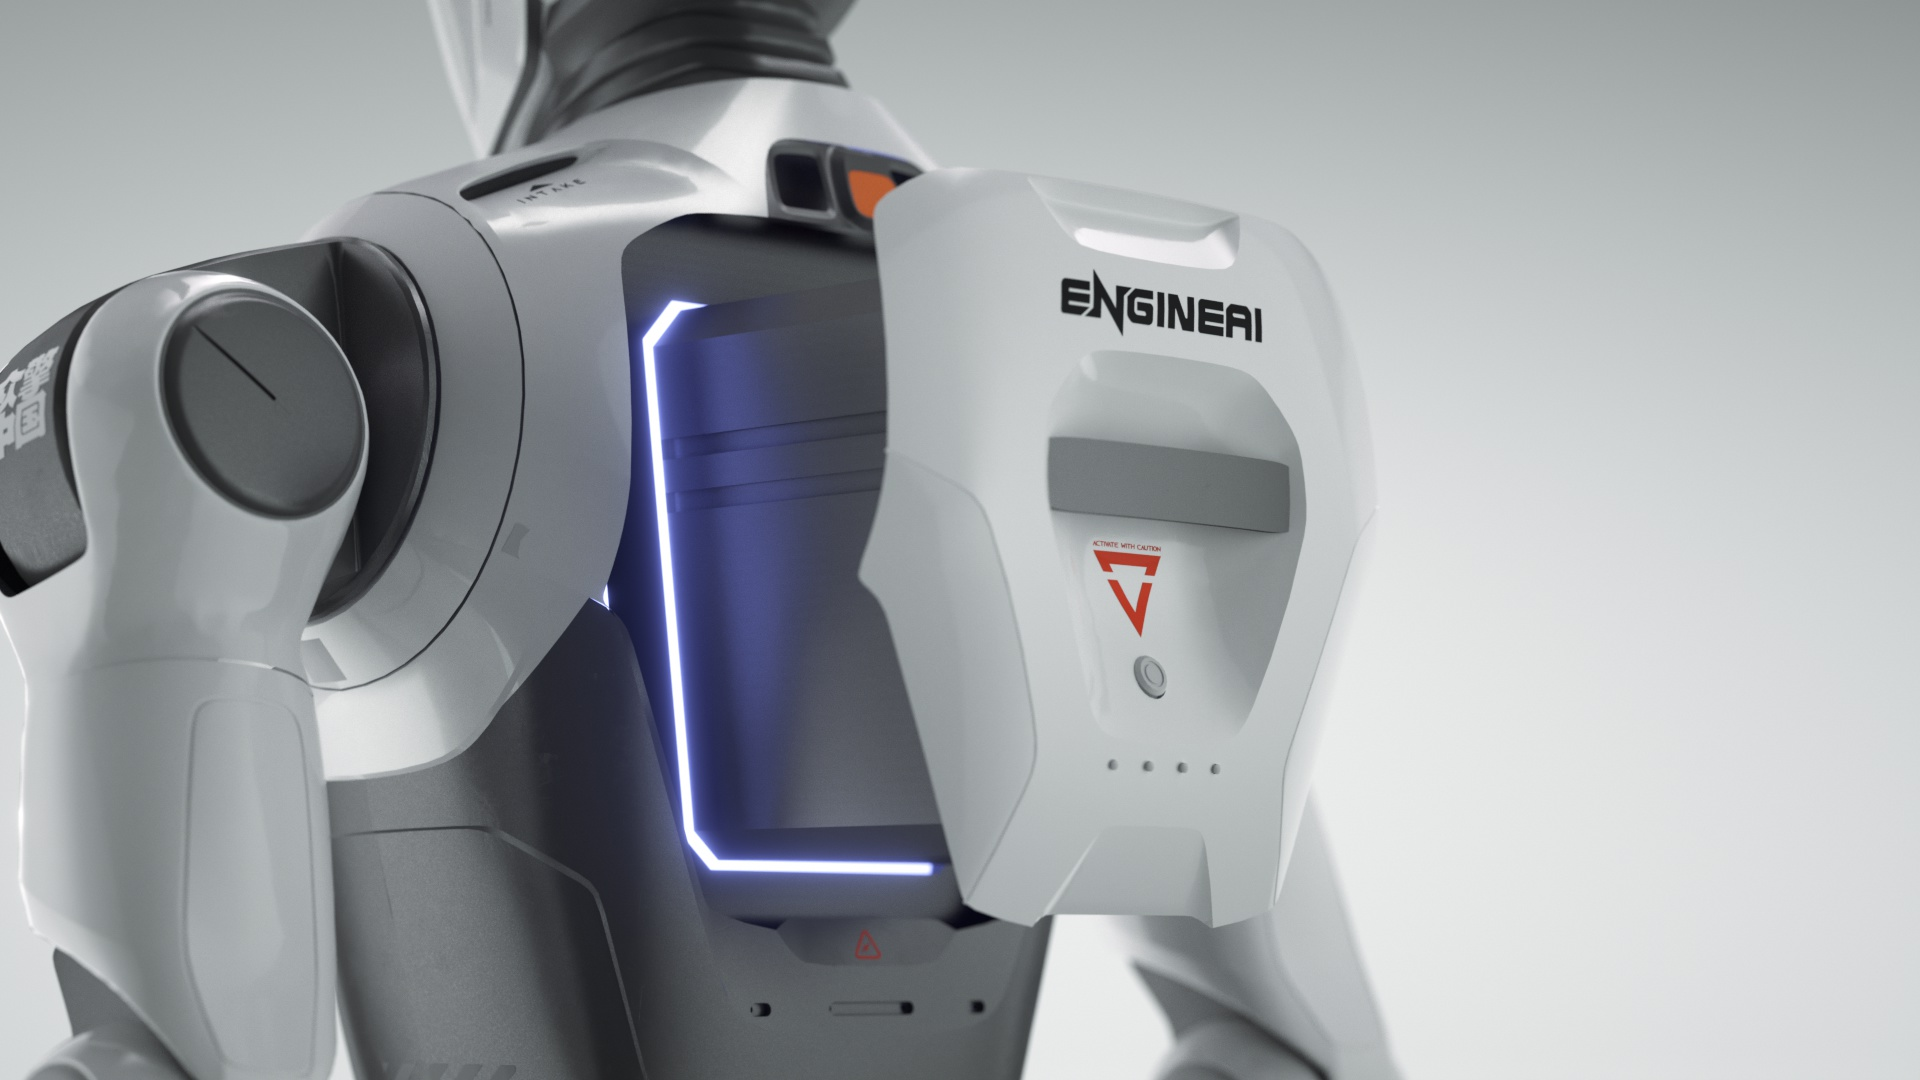
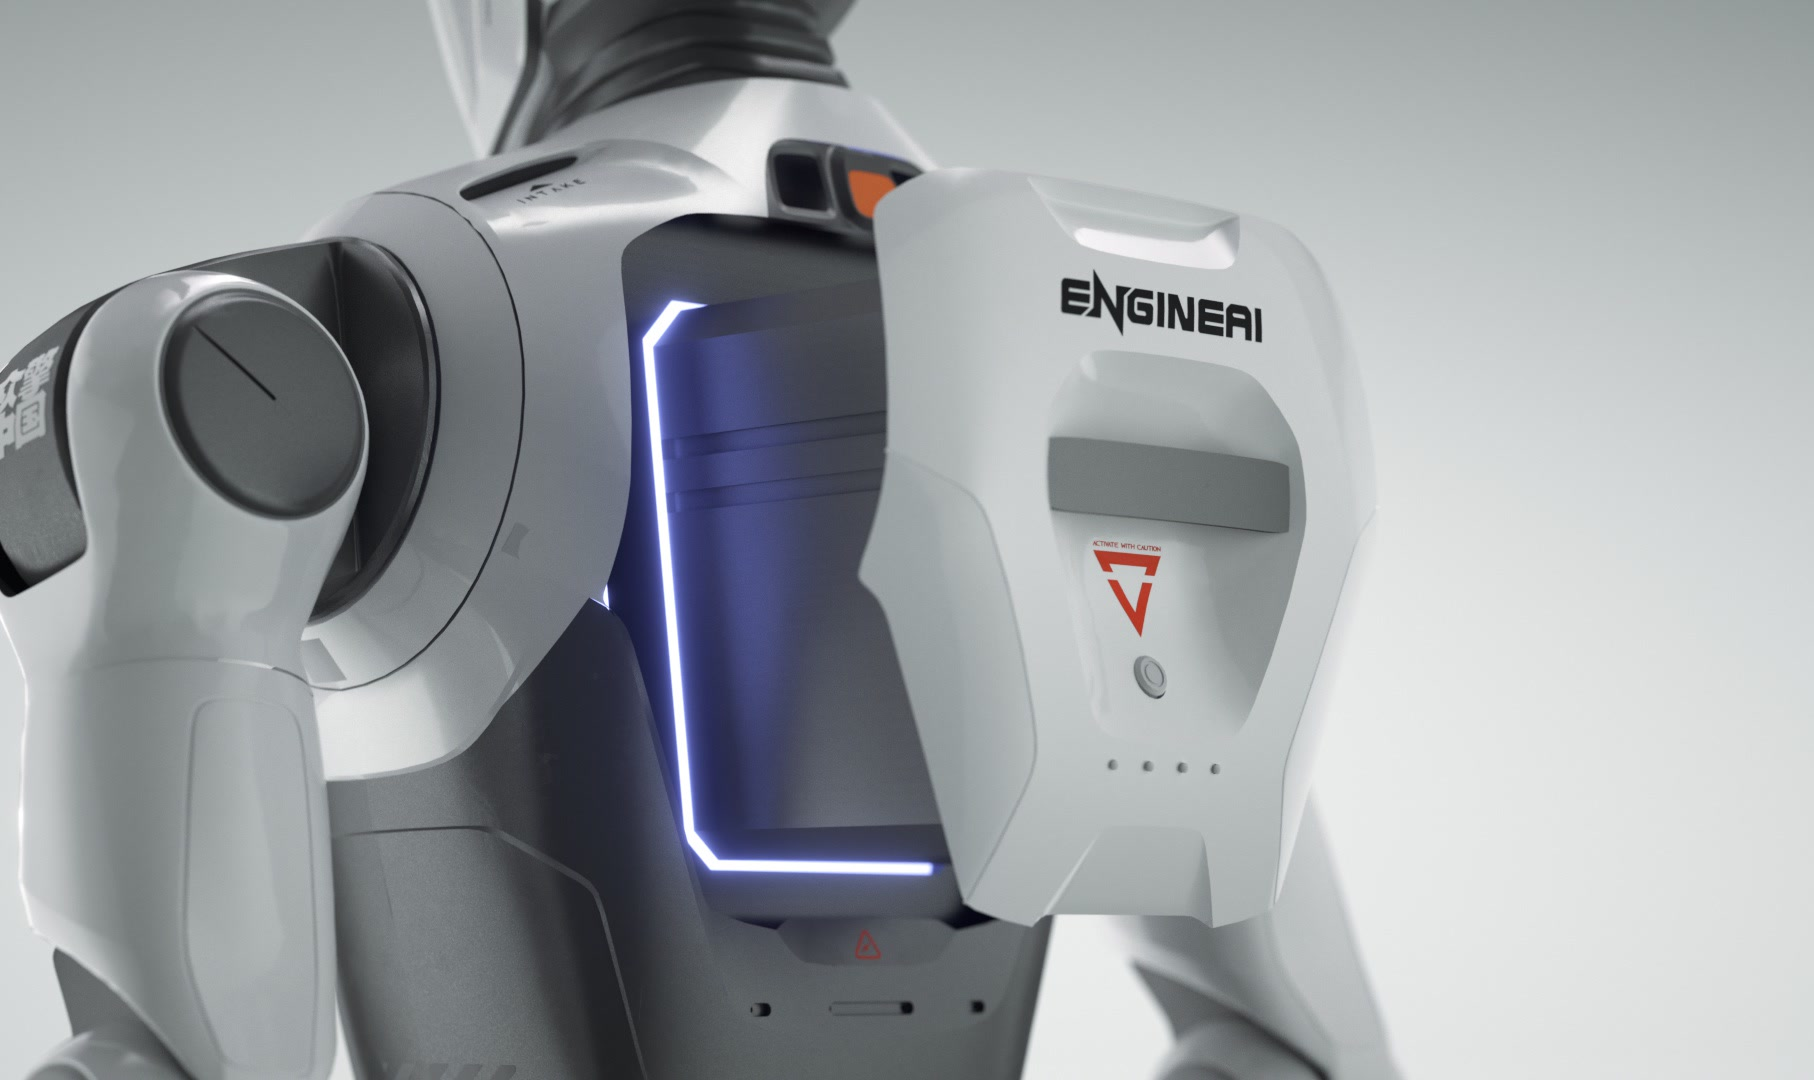
Level the anatomy pair, give the G1 the full platform treatment
Three rounds of Tobias' feedback on the showcase pages:

- The T800's back view was taller than the front — cropped the source
  to exactly the front view's aspect ratio (marker coordinates
  re-projected), so the pair now sits level.
- The G1 gets the same dark hero as the T800, using the Iron Fist King
  broadcast frame of a G1 landing a kick — its defining image, and the
  page now opens the way the T800's does.
- The G1's kick shot moved up beside the annotated front view at equal
  size, and its feature row is its combat record across three formats
  (Iron Fist King, WHRG kickboxing, REK San Francisco) — the one thing
  it has that the T800 doesn't.
- /robots lists platforms only. The page promises "these are the
  models", and Matador and White Eagle are T800s in team colours — they
  stay reachable from fight cards, team pages and the T800's "In the
  cage as" list, keyed on the platformSlug marker.
- About-this-machine text now uses the card's full width.

Claude-Session: https://claude.ai/code/session_01M41dt4FrEtv1yLiyf1xU9h

diff --git a/src/lib/machine-media.ts b/src/lib/machine-media.ts
@@ -161,20 +161,22 @@ const T800_SHOWCASE: Showcase = {
     },
     {
       title: "Back",
+      // Cropped to exactly the front view's aspect ratio so the two figures
+      // land at the same rendered height side by side.
       image: {
         src: "/machines/t800-back.jpg",
         alt: "EngineAI T800 upper body from behind, showing the removable battery pack",
         caption: "",
         credit: "EngineAI",
-        width: 1920,
+        width: 1814,
         height: 1080,
       },
       points: [
-        { x: 29, y: 16, label: "Cooling intake", detail: "active airflow for the drivetrain" },
-        { x: 61, y: 45, label: "Removable fast-charging battery", detail: "72 V quick-release pack" },
-        { x: 36, y: 55, label: "Status light strip" },
-        { x: 13, y: 38, label: "7-DOF arms", detail: "shoulder, elbow and wrist articulation" },
-        { x: 47, y: 82, label: "Magnesium-aluminium alloy body", detail: "aviation-grade panelling" },
+        { x: 31, y: 16, label: "Cooling intake", detail: "active airflow for the drivetrain" },
+        { x: 64.5, y: 45, label: "Removable fast-charging battery", detail: "72 V quick-release pack" },
+        { x: 38, y: 55, label: "Status light strip" },
+        { x: 14, y: 38, label: "7-DOF arms", detail: "shoulder, elbow and wrist articulation" },
+        { x: 50, y: 82, label: "Magnesium-aluminium alloy body", detail: "aviation-grade panelling" },
       ],
     },
   ],
@@ -227,15 +229,14 @@ const G1_SHOWCASE: Showcase = {
   tagline:
     "Child-sized, cheap enough to crash and agile enough to headline — the most widely used humanoid in combat events anywhere, from Hangzhou to San Francisco.",
   hero: {
-    src: "/machines/g1-front.jpg",
-    alt: "Unitree G1 humanoid robot standing, seen from the front",
+    src: "/machines/g1-hero.jpg",
+    alt: "Unitree G1 landing a kick in the ring at Iron Fist King: Awakening, Hangzhou",
     caption: "",
-    credit: "Unitree Robotics",
-    width: 800,
-    height: 800,
-    fit: "contain",
+    credit: "Unitree Robotics / Iron Fist King broadcast",
+    width: 1280,
+    height: 720,
   },
-  heroTone: "light",
+  heroTone: "dark",
   stats: [
     { label: "Height", value: "130 cm" },
     { label: "Weight", value: "≈35 kg" },
@@ -263,8 +264,62 @@ const G1_SHOWCASE: Showcase = {
         { x: 41, y: 91, label: "Compact feet", detail: "2 m/s walking, stable on one leg mid-kick" },
       ],
     },
+    {
+      // Same 1:1 frame as the front view, so the pair sits level — the
+      // annotated figure and the move it exists to throw.
+      title: "In action",
+      image: {
+        src: "/machines/g1-kick.jpg",
+        alt: "Unitree G1 mid high-kick, showing the side and back of the machine",
+        caption: "",
+        credit: "Unitree Robotics",
+        width: 800,
+        height: 800,
+      },
+      points: [],
+    },
   ],
-  features: [],
+  // The T800's tiles show engineering close-ups; the G1 has something the
+  // T800 does not — a combat record across three formats. That is its
+  // feature set.
+  features: [
+    {
+      image: {
+        src: "/machines/g1-ifk.jpg",
+        alt: "Two G1s exchanging kicks in the Iron Fist King ring with a referee behind them",
+        caption: "",
+        credit: "Iron Fist King broadcast",
+        width: 980,
+        height: 720,
+      },
+      title: "Iron Fist King · Hangzhou",
+      text: "May 2025 — the first robot boxing tournament ever held. Four G1s, human operators, and the night this sport started.",
+    },
+    {
+      image: {
+        src: "/machines/g1-whrg.jpg",
+        alt: "G1s in red and black protective gear fighting in the WHRG kickboxing bracket",
+        caption: "",
+        credit: "World Humanoid Robot Games broadcast",
+        width: 980,
+        height: 720,
+      },
+      title: "WHRG kickboxing · Beijing",
+      text: "August 2026 — the kickboxing bracket of the World Humanoid Robot Games, fought in full contact gear with team numbers on the vest.",
+    },
+    {
+      image: {
+        src: "/machines/g1-rek.jpg",
+        alt: "Two modified G1s in boxing gloves squaring up at REK in San Francisco",
+        caption: "",
+        credit: "REK",
+        width: 520,
+        height: 320,
+      },
+      title: "REK · San Francisco",
+      text: "The first robot fighting on US soil — modified G1s under VR control, piloted by professional MMA fighters.",
+    },
+  ],
 };
 
 export const MACHINE_MEDIA: Record<string, MachineMedia> = {
@@ -291,19 +346,9 @@ export const MACHINE_MEDIA: Record<string, MachineMedia> = {
       height: 800,
       fit: "contain",
     },
-    // The front view lives in the showcase hero and anatomy — the gallery
-    // keeps only the action shot.
-    gallery: [
-      {
-        src: "/machines/g1-kick.jpg",
-        alt: "Unitree G1 mid high-kick, showing the side and back of the machine",
-        caption: "Mid high-kick — the move that filled arenas before full-size machines existed.",
-        credit: "Unitree Robotics",
-        width: 800,
-        height: 800,
-        fit: "contain",
-      },
-    ],
+    // Both studio shots live in the showcase (anatomy pair) — nothing left
+    // for a separate gallery.
+    gallery: [],
     showcase: G1_SHOWCASE,
     reading: [
       "The G1 is the machine that fought the first robot boxing match in history — Iron Fist King: Awakening, Hangzhou, May 2025 — and it is still the most widely used humanoid in combat events anywhere. At 1.3 metres and roughly 35 kilograms it is child-sized next to a T800, which is exactly why it got there first: it is cheap enough to field in numbers, light enough to crash without consequence, and agile enough to be genuinely fun to watch.",

diff --git a/src/app/(app)/robots/[slug]/page.tsx b/src/app/(app)/robots/[slug]/page.tsx
@@ -200,7 +200,7 @@ export default async function RobotPage(props: PageProps<"/robots/[slug]">) {
       ) : null}
 
       {/* The machine in action — fight photography. */}
-      {media ? (
+      {media && media.gallery.length > 0 ? (
         <div className="mb-8 grid gap-4 sm:grid-cols-2">
           {media.gallery.map((image) => (
             <MachineFigure key={image.src + image.caption} image={image} />
@@ -235,7 +235,7 @@ export default async function RobotPage(props: PageProps<"/robots/[slug]">) {
         <Card className="mb-6">
           <CardHeader title="About this machine" />
           <CardBody>
-            <div className="max-w-2xl space-y-4">
+            <div className="space-y-4">
               {media.reading.map((paragraph) => (
                 <p key={paragraph.slice(0, 40)} className="text-ink-muted text-sm leading-relaxed">
                   {paragraph}

diff --git a/src/app/(app)/robots/page.tsx b/src/app/(app)/robots/page.tsx
@@ -30,11 +30,20 @@ export const metadata: Metadata = {
  * these pages the day the leagues publish full cards.
  */
 export default async function MachinesPage() {
-  const rows = await db
+  const allRows = await db
     .select({ robot: robots, teamName: teams.name, teamSlug: teams.slug })
     .from(robots)
     .innerJoin(teams, eq(robots.teamId, teams.id))
     .orderBy(asc(robots.name));
+
+  // This index promises "these are the models" — so it lists platforms, not
+  // fighters. Matador and White Eagle are league-standard T800s in team
+  // colours; they live on as pages reachable from fight cards, team pages
+  // and the T800's "In the cage as" list, but showing them here would list
+  // the same machine three times.
+  const rows = allRows.filter(
+    ({ robot }) => !getMachineMedia(robot.slug)?.platformSlug,
+  );
 
   return (
     <PageShell>

diff --git a/src/components/machine-showcase.tsx b/src/components/machine-showcase.tsx
@@ -119,7 +119,8 @@ export function AnatomyFigure({ view }: { view: AnatomyView }) {
         ))}
       </div>
       <figcaption>
-        <ol className="mt-3 space-y-1.5">
+        {view.points.length > 0 ? (
+          <ol className="mt-3 space-y-1.5">
           {view.points.map((point, index) => (
             <li key={point.label} className="flex gap-2 text-xs">
               <span className="bg-ink font-display flex size-4 shrink-0 items-center justify-center rounded-full text-[0.6rem] font-bold text-white">
@@ -133,7 +134,8 @@ export function AnatomyFigure({ view }: { view: AnatomyView }) {
               </span>
             </li>
           ))}
-        </ol>
+          </ol>
+        ) : null}
         <p className="text-ink-dim mt-2 text-xs">Photo: {view.image.credit}.</p>
       </figcaption>
     </figure>
